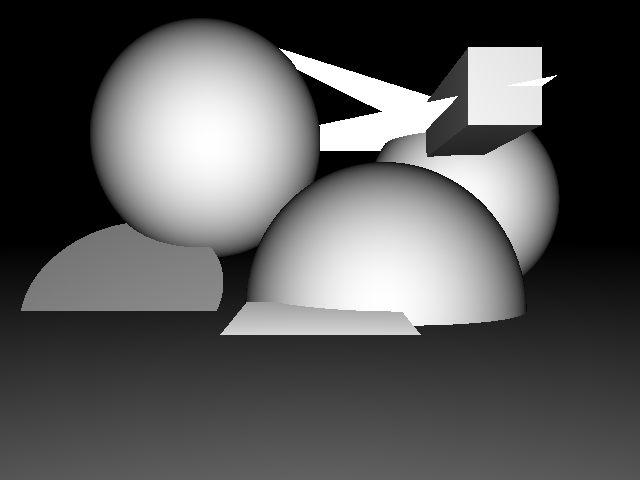
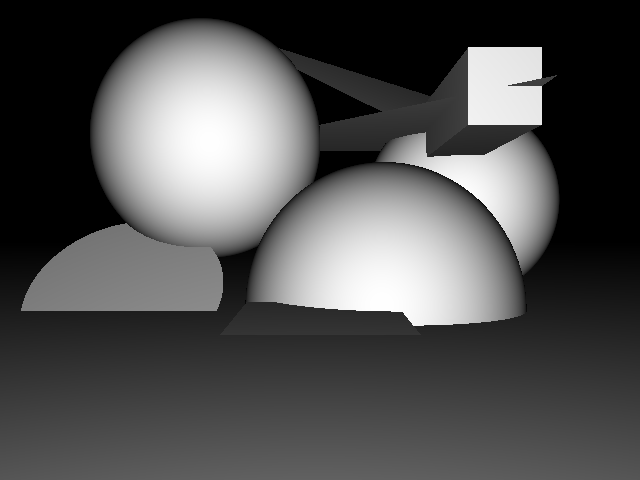
v2: yayayayaya

Changed region(s): [[0.4375, 0.0938, 0.7188, 0.3125], [0.3438, 0.625, 0.6562, 0.7188], [0.8125, 0.1562, 0.875, 0.1875]]

diff --git a/rt/solids/triangle.cpp b/rt/solids/triangle.cpp
@@ -35,7 +35,7 @@ namespace rt
 		Vector normalVector = cross(v1v2, v1v3);
 		float fullArea = normalVector.length() / 2;
 
-		InfinitePlane plane = InfinitePlane(v1, normalVector, texMapper, material);
+		InfinitePlane plane = InfinitePlane(v1, normalVector.normalize(), texMapper, material);
 		Intersection intersectionObject = plane.intersect(ray, previousBestDistance);
 
 		if (intersectionObject)
